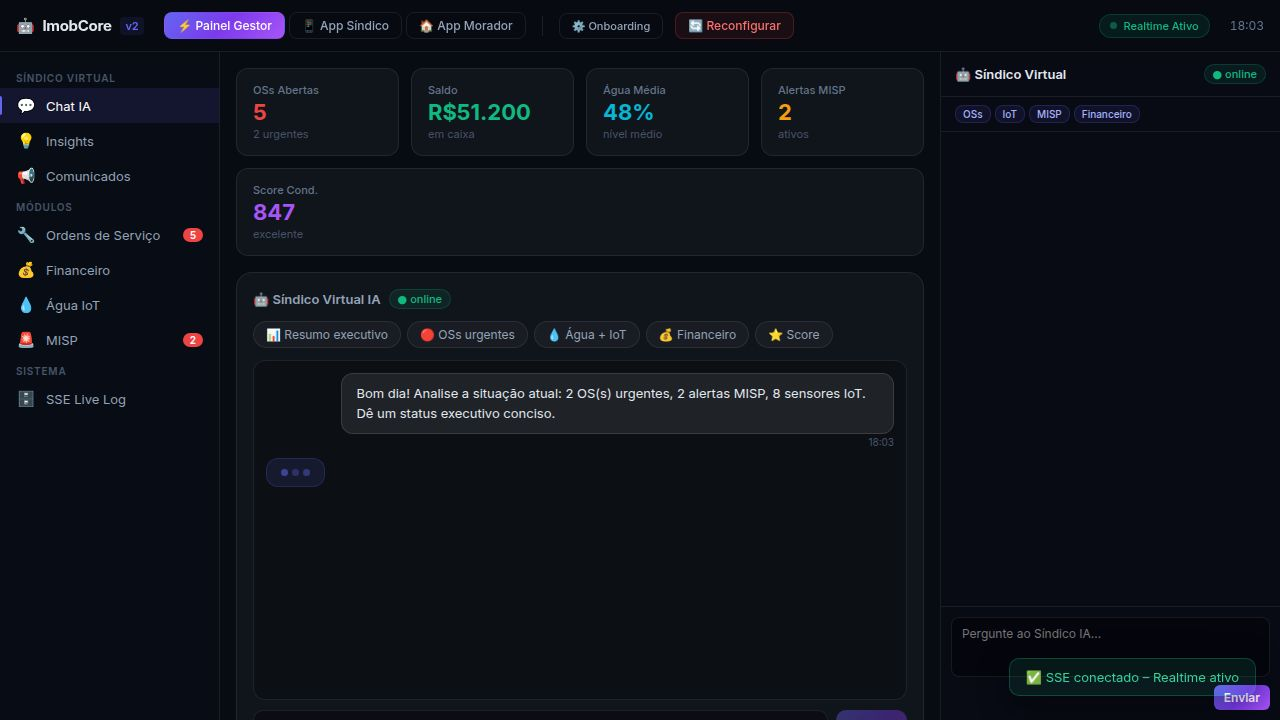
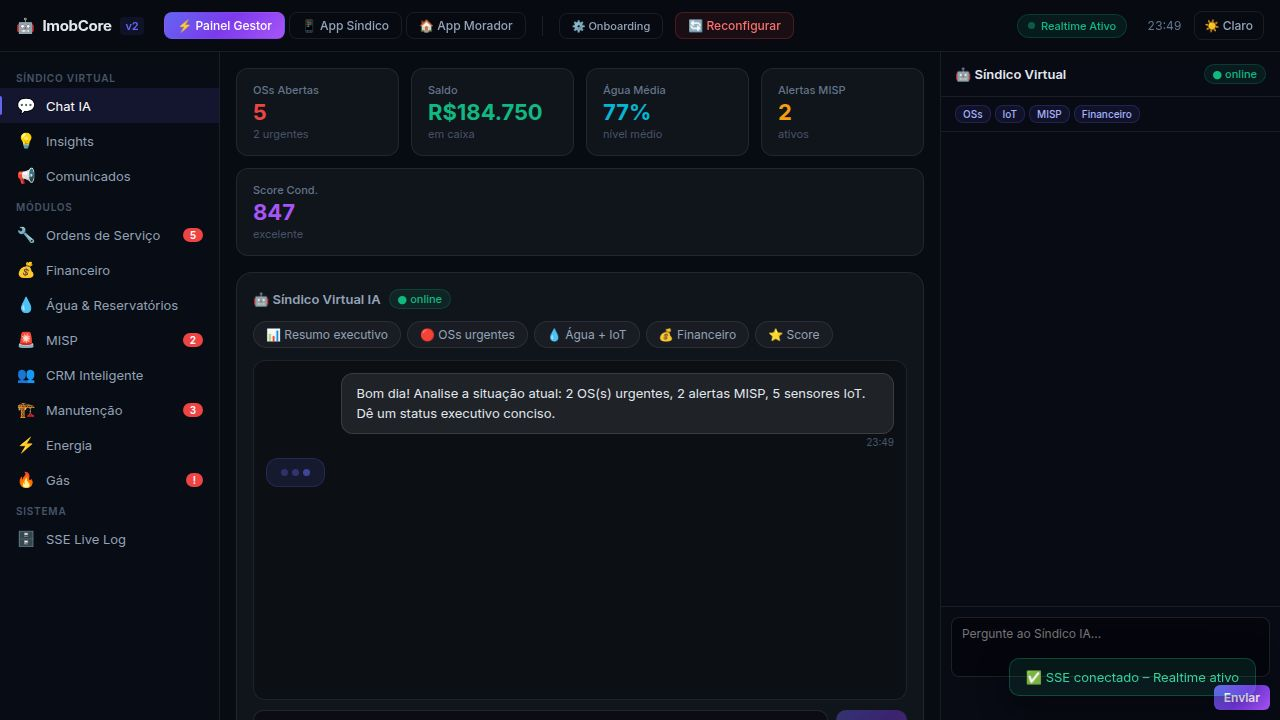
Add theme switching between dark and light modes
Introduce a theme toggle button and implement CSS custom properties for dynamic theme switching between dark and light modes in `App.tsx`.

Replit-Commit-Author: Agent
Replit-Commit-Session-Id: 5dbc3143-1f75-44cb-a1fa-338890d88333
Replit-Commit-Checkpoint-Type: full_checkpoint
Replit-Commit-Event-Id: f2934173-0b25-46a8-9594-42200f7cffc5
Replit-Commit-Screenshot-Url: https://storage.googleapis.com/screenshot-production-us-central1/3fd0c5ea-08d8-4e62-8c21-463e58d3085b/5dbc3143-1f75-44cb-a1fa-338890d88333/OtqTMGt
Replit-Helium-Checkpoint-Created: true

diff --git a/artifacts/imobcore-frontend/src/App.tsx b/artifacts/imobcore-frontend/src/App.tsx
@@ -24,7 +24,7 @@ const fmtTime = () => new Date().toLocaleTimeString("pt-BR", { hour: "2-digit", 
 const CSS = `
 @import url('https://fonts.googleapis.com/css2?family=Inter:wght@300;400;500;600;700;800&display=swap');
 *,*::before,*::after{box-sizing:border-box;margin:0;padding:0}
-html,body,#root{height:100%;font-family:'Inter',sans-serif;background:#070B12;color:#E2E8F0;overflow:hidden}
+html,body,#root{height:100%;font-family:'Inter',sans-serif;background:var(--c-bg);color:var(--c-text);overflow:hidden}
 :root{
   --bg:#070B12;--card-bg:rgba(255,255,255,.04);--card-border:rgba(255,255,255,.08);
   --grad:linear-gradient(135deg,#6366F1,#7C3AED,#A855F7);
@@ -32,22 +32,34 @@ html,body,#root{height:100%;font-family:'Inter',sans-serif;background:#070B12;co
   --indigo:#6366F1;--violet:#7C3AED;--purple:#A855F7;
   --teal:#14B8A6;--red:#EF4444;--amber:#F59E0B;--green:#10B981;--blue:#3B82F6;--cyan:#06B6D4;
   --sidebar-w:220px;--ai-panel-w:340px;--topbar-h:52px;
+  /* ── Theme tokens (updated via JS useEffect) ─────────────────── */
+  --c-bg:#070B12;--c-bg2:#0D1526;
+  --c-sidebar:rgba(8,12,20,.98);--c-topbar:rgba(7,11,18,.95);
+  --c-topbar-border:rgba(255,255,255,.08);--c-panel:rgba(8,10,20,.98);
+  --c-input:rgba(0,0,0,.3);--c-input-border:rgba(255,255,255,.1);
+  --c-text:#E2E8F0;--c-text-muted:#94A3B8;--c-text-faint:#475569;
+  --c-surface:rgba(255,255,255,.04);--c-surface2:rgba(255,255,255,.02);
+  --c-divider:rgba(255,255,255,.05);--c-hover:rgba(255,255,255,.04);
+  --c-sb-item:#94A3B8;--c-sb-item-hover:#E2E8F0;
+  --c-scrollbar:rgba(255,255,255,.1);
 }
 ::-webkit-scrollbar{width:4px;height:4px}
 ::-webkit-scrollbar-track{background:transparent}
-::-webkit-scrollbar-thumb{background:rgba(255,255,255,.1);border-radius:2px}
+::-webkit-scrollbar-thumb{background:var(--c-scrollbar);border-radius:2px}
 @keyframes pulse{0%,100%{opacity:1}50%{opacity:.4}}
 @keyframes fadeIn{from{opacity:0;transform:translateY(6px)}to{opacity:1;transform:translateY(0)}}
 @keyframes slideLeft{from{opacity:0;transform:translateX(30px)}to{opacity:1;transform:translateX(0)}}
 @keyframes blink{0%,100%{opacity:1}50%{opacity:.3}}
 @keyframes slideIn{from{opacity:0;transform:translateX(20px)}to{opacity:1;transform:translateX(0)}}
 @keyframes bellShake{0%,100%{transform:rotate(0)}20%{transform:rotate(-15deg)}40%{transform:rotate(15deg)}60%{transform:rotate(-10deg)}80%{transform:rotate(10deg)}}
-.topbar{position:fixed;top:0;left:0;right:0;z-index:1000;height:var(--topbar-h);background:rgba(7,11,18,.95);backdrop-filter:blur(12px);border-bottom:1px solid var(--card-border);display:flex;align-items:center;gap:12px;padding:0 16px}
+.topbar{position:fixed;top:0;left:0;right:0;z-index:1000;height:var(--topbar-h);background:var(--c-topbar);backdrop-filter:blur(12px);border-bottom:1px solid var(--c-topbar-border);display:flex;align-items:center;gap:12px;padding:0 16px}
+.theme-toggle{padding:6px 10px;border-radius:8px;border:1px solid var(--c-topbar-border);background:transparent;cursor:pointer;font-size:15px;transition:all .2s;display:flex;align-items:center;gap:5px;font-family:inherit;color:var(--c-text-muted);font-size:12px;font-weight:500}
+.theme-toggle:hover{background:var(--c-hover);color:var(--c-text)}
 .logo{display:flex;align-items:center;gap:8px;font-weight:700;font-size:15px;letter-spacing:-.3px;margin-right:8px}
 .view-btns{display:flex;gap:4px}
-.view-btn{padding:5px 12px;border-radius:8px;border:1px solid var(--card-border);background:transparent;color:#94A3B8;font-size:12px;font-weight:500;cursor:pointer;transition:all .2s;font-family:inherit}
+.view-btn{padding:5px 12px;border-radius:8px;border:1px solid var(--c-topbar-border);background:transparent;color:var(--c-text-muted);font-size:12px;font-weight:500;cursor:pointer;transition:all .2s;font-family:inherit}
 .view-btn.active{background:var(--grad);border-color:transparent;color:#fff}
-.view-btn:hover:not(.active){background:rgba(255,255,255,.06);color:#E2E8F0}
+.view-btn:hover:not(.active){background:var(--c-hover);color:var(--c-text)}
 .rt-badge{display:flex;align-items:center;gap:6px;margin-left:auto;padding:4px 10px;border-radius:20px;background:rgba(16,185,129,.1);border:1px solid rgba(16,185,129,.2);font-size:11px;color:#10B981;font-weight:500}
 .rt-badge .dot{width:7px;height:7px;border-radius:50%;background:#10B981}
 .rt-badge .dot.pulse{animation:pulse 2s infinite}
@@ -56,16 +68,16 @@ html,body,#root{height:100%;font-family:'Inter',sans-serif;background:#070B12;co
 .clock{font-size:12px;color:#64748B;font-variant-numeric:tabular-nums;margin-left:8px}
 .view{display:none;height:calc(100vh - var(--topbar-h));margin-top:var(--topbar-h)}
 .view.active{display:flex}
-.sidebar{width:var(--sidebar-w);min-width:var(--sidebar-w);height:100%;background:rgba(8,12,20,.98);border-right:1px solid var(--card-border);overflow-y:auto;padding:12px 0}
-.sb-label{font-size:10px;font-weight:600;color:#475569;text-transform:uppercase;letter-spacing:.08em;padding:8px 16px 4px}
-.sb-item{display:flex;align-items:center;gap:10px;padding:8px 16px;cursor:pointer;font-size:13px;color:#94A3B8;transition:all .15s;position:relative}
-.sb-item:hover{color:#E2E8F0;background:rgba(255,255,255,.04)}
+.sidebar{width:var(--sidebar-w);min-width:var(--sidebar-w);height:100%;background:var(--c-sidebar);border-right:1px solid var(--c-topbar-border);overflow-y:auto;padding:12px 0}
+.sb-label{font-size:10px;font-weight:600;color:var(--c-text-faint);text-transform:uppercase;letter-spacing:.08em;padding:8px 16px 4px}
+.sb-item{display:flex;align-items:center;gap:10px;padding:8px 16px;cursor:pointer;font-size:13px;color:var(--c-sb-item);transition:all .15s;position:relative}
+.sb-item:hover{color:var(--c-sb-item-hover);background:var(--c-hover)}
 .sb-item.active{color:#fff;background:rgba(99,102,241,.12)}
 .sb-item.active::before{content:'';position:absolute;left:0;top:8px;bottom:8px;width:2px;background:var(--indigo);border-radius:0 2px 2px 0}
 .sb-icon{font-size:15px;width:20px;text-align:center}
 .sb-badge{margin-left:auto;padding:1px 7px;border-radius:10px;background:var(--red);color:#fff;font-size:10px;font-weight:600}
 .sb-badge.blue{background:var(--blue)}
-.main-area{flex:1;overflow-y:auto;padding:16px}
+.main-area{flex:1;overflow-y:auto;padding:16px;background:var(--c-bg);color:var(--c-text)}
 .kpi-row{display:flex;gap:12px;margin-bottom:16px;flex-wrap:wrap}
 .kpi-card{flex:1;min-width:140px;padding:14px 16px;background:var(--card-bg);border:1px solid var(--card-border);border-radius:12px}
 .kpi-label{font-size:11px;color:#64748B;font-weight:500;margin-bottom:4px}
@@ -87,7 +99,7 @@ html,body,#root{height:100%;font-family:'Inter',sans-serif;background:#070B12;co
 .msg.user .msg-bubble{background:rgba(255,255,255,.08);border:1px solid rgba(255,255,255,.12);color:#E2E8F0}
 .msg-time{font-size:10px;color:#475569;margin-top:2px}
 .chat-input-row{display:flex;gap:8px}
-.chat-input{flex:1;padding:10px 14px;background:rgba(0,0,0,.3);border:1px solid var(--card-border);border-radius:10px;color:#E2E8F0;font-size:13px;font-family:inherit;resize:none;transition:border-color .15s}
+.chat-input{flex:1;padding:10px 14px;background:var(--c-input);border:1px solid var(--c-input-border);border-radius:10px;color:var(--c-text);font-size:13px;font-family:inherit;resize:none;transition:border-color .15s}
 .chat-input:focus{outline:none;border-color:rgba(99,102,241,.5)}
 .btn-send{padding:10px 16px;background:var(--grad);border:none;border-radius:10px;color:#fff;font-weight:600;font-size:13px;cursor:pointer;transition:opacity .15s;font-family:inherit}
 .btn-send:hover{opacity:.85}
@@ -124,10 +136,10 @@ tbody tr:hover td{background:rgba(255,255,255,.02)}
 .btn-success{background:rgba(16,185,129,.15);color:#34D399;border:1px solid rgba(16,185,129,.2)}
 .btn-success:hover{background:rgba(16,185,129,.25)}
 .form-group{margin-bottom:12px}
-.form-label{font-size:12px;color:#64748B;margin-bottom:4px;display:block;font-weight:500}
-.form-control{width:100%;padding:8px 12px;background:rgba(0,0,0,.3);border:1px solid var(--card-border);border-radius:8px;color:#E2E8F0;font-size:13px;font-family:inherit}
+.form-label{font-size:12px;color:var(--c-text-faint);margin-bottom:4px;display:block;font-weight:500}
+.form-control{width:100%;padding:8px 12px;background:var(--c-input);border:1px solid var(--c-input-border);border-radius:8px;color:var(--c-text);font-size:13px;font-family:inherit}
 .form-control:focus{outline:none;border-color:rgba(99,102,241,.5)}
-select.form-control option{background:#0D1220}
+select.form-control option{background:var(--c-bg2)}
 .sensor-grid{display:grid;grid-template-columns:repeat(auto-fill,minmax(160px,1fr));gap:12px}
 .sensor-card{background:var(--card-bg);border:1px solid var(--card-border);border-radius:12px;padding:16px;text-align:center}
 .sensor-ring-wrap{position:relative;width:90px;height:90px;margin:0 auto 10px}
@@ -137,13 +149,13 @@ select.form-control option{background:#0D1220}
 .ring-label{position:absolute;top:50%;left:50%;transform:translate(-50%,-50%);font-size:16px;font-weight:700;line-height:1}
 .sensor-name{font-size:12px;font-weight:600;color:#CBD5E1;margin-bottom:2px}
 .sensor-sub{font-size:11px;color:#475569}
-.ai-panel{width:var(--ai-panel-w);min-width:var(--ai-panel-w);height:100%;background:rgba(8,10,20,.98);border-left:1px solid var(--card-border);display:flex;flex-direction:column}
+.ai-panel{width:var(--ai-panel-w);min-width:var(--ai-panel-w);height:100%;background:var(--c-panel);border-left:1px solid var(--c-topbar-border);display:flex;flex-direction:column}
 .ai-panel-header{padding:12px 14px;border-bottom:1px solid var(--card-border);display:flex;align-items:center;justify-content:space-between}
 .ctx-pills{display:flex;flex-wrap:wrap;gap:4px;padding:8px 14px;border-bottom:1px solid var(--card-border)}
 .ctx-pill{font-size:10px;padding:2px 7px;border-radius:8px;font-weight:500;background:rgba(99,102,241,.1);color:#A5B4FC;border:1px solid rgba(99,102,241,.2)}
 .ai-panel-msgs{flex:1;overflow-y:auto;padding:10px;display:flex;flex-direction:column;gap:8px}
 .ai-panel-input{padding:10px;border-top:1px solid var(--card-border)}
-.ai-panel-input textarea{width:100%;padding:8px 10px;background:rgba(0,0,0,.3);border:1px solid var(--card-border);border-radius:8px;color:#E2E8F0;font-size:12px;font-family:inherit;resize:none;height:60px}
+.ai-panel-input textarea{width:100%;padding:8px 10px;background:var(--c-input);border:1px solid var(--c-input-border);border-radius:8px;color:var(--c-text);font-size:12px;font-family:inherit;resize:none;height:60px}
 .ai-panel-input textarea:focus{outline:none;border-color:rgba(99,102,241,.5)}
 .log-wrap{height:380px;overflow-y:auto;padding:10px;font-family:'Courier New',monospace;font-size:11px;background:rgba(0,0,0,.4);border-radius:8px;border:1px solid var(--card-border)}
 .log-entry{padding:3px 0;border-bottom:1px solid rgba(255,255,255,.03);color:#64748B}
@@ -377,6 +389,7 @@ export default function App() {
   const toastIdRef = useRef(0);
   const [bellCount, setBellCount] = useState(0);
   const [bellShake, setBellShake] = useState(false);
+  const [theme, setTheme] = useState<"dark" | "light">("dark");
   // ── Manutenção state ────────────────────────────────────────────────────
   const [mantTab, setMantTab] = useState<"equip"|"mapa"|"plano"|"os"|"qr"|"ia">("equip");
   const [mantSearch, setMantSearch] = useState("");
@@ -660,6 +673,71 @@ export default function App() {
     const refresh = setInterval(() => loadDashboard(), 10000);
     return () => { clearInterval(clock); clearInterval(refresh); };
   }, [loadDashboard]);
+
+  // ── Theme: apply CSS custom properties ───────────────────────────────────
+  useEffect(() => {
+    const r = document.documentElement.style;
+    if (theme === "light") {
+      r.setProperty("--c-bg", "#F1F5F9");
+      r.setProperty("--c-bg2", "#E2E8F0");
+      r.setProperty("--card-bg", "#FFFFFF");
+      r.setProperty("--card-border", "rgba(0,0,0,.1)");
+      r.setProperty("--c-sidebar", "#EAEFF6");
+      r.setProperty("--c-topbar", "rgba(241,245,249,.97)");
+      r.setProperty("--c-topbar-border", "rgba(0,0,0,.1)");
+      r.setProperty("--c-panel", "#F8FAFC");
+      r.setProperty("--c-input", "#FFFFFF");
+      r.setProperty("--c-input-border", "rgba(0,0,0,.15)");
+      r.setProperty("--c-text", "#0F172A");
+      r.setProperty("--c-text-muted", "#334155");
+      r.setProperty("--c-text-faint", "#64748B");
+      r.setProperty("--c-surface", "#FFFFFF");
+      r.setProperty("--c-surface2", "#F8FAFC");
+      r.setProperty("--c-divider", "rgba(0,0,0,.07)");
+      r.setProperty("--c-hover", "rgba(0,0,0,.04)");
+      r.setProperty("--c-sb-item", "#475569");
+      r.setProperty("--c-sb-item-hover", "#0F172A");
+      r.setProperty("--c-scrollbar", "rgba(0,0,0,.15)");
+    } else {
+      r.setProperty("--c-bg", "#070B12");
+      r.setProperty("--c-bg2", "#0D1526");
+      r.setProperty("--card-bg", "rgba(255,255,255,.04)");
+      r.setProperty("--card-border", "rgba(255,255,255,.08)");
+      r.setProperty("--c-sidebar", "rgba(8,12,20,.98)");
+      r.setProperty("--c-topbar", "rgba(7,11,18,.95)");
+      r.setProperty("--c-topbar-border", "rgba(255,255,255,.08)");
+      r.setProperty("--c-panel", "rgba(8,10,20,.98)");
+      r.setProperty("--c-input", "rgba(0,0,0,.3)");
+      r.setProperty("--c-input-border", "rgba(255,255,255,.1)");
+      r.setProperty("--c-text", "#E2E8F0");
+      r.setProperty("--c-text-muted", "#94A3B8");
+      r.setProperty("--c-text-faint", "#475569");
+      r.setProperty("--c-surface", "rgba(255,255,255,.04)");
+      r.setProperty("--c-surface2", "rgba(255,255,255,.02)");
+      r.setProperty("--c-divider", "rgba(255,255,255,.05)");
+      r.setProperty("--c-hover", "rgba(255,255,255,.04)");
+      r.setProperty("--c-sb-item", "#94A3B8");
+      r.setProperty("--c-sb-item-hover", "#E2E8F0");
+      r.setProperty("--c-scrollbar", "rgba(255,255,255,.1)");
+    }
+  }, [theme]);
+
+  // ── Theme tokens (used in inline styles throughout panels) ───────────────
+  const th = theme === "light" ? {
+    bg: "#F1F5F9", surface: "#FFFFFF", surface2: "#F8FAFC", surface3: "#EEF2F7",
+    border: "rgba(0,0,0,.1)", border2: "rgba(0,0,0,.06)",
+    text: "#0F172A", textMuted: "#334155", textFaint: "#64748B",
+    inputBg: "#FFFFFF", inputBorder: "rgba(0,0,0,.15)",
+    logBg: "rgba(0,0,0,.04)", chatBg: "rgba(0,0,0,.04)",
+    shadow: "0 1px 3px rgba(0,0,0,.12)",
+  } : {
+    bg: "#070B12", surface: "rgba(255,255,255,.04)", surface2: "rgba(255,255,255,.02)", surface3: "rgba(255,255,255,.06)",
+    border: "rgba(255,255,255,.08)", border2: "rgba(255,255,255,.05)",
+    text: "#E2E8F0", textMuted: "#94A3B8", textFaint: "#475569",
+    inputBg: "rgba(0,0,0,.3)", inputBorder: "rgba(255,255,255,.1)",
+    logBg: "rgba(0,0,0,.4)", chatBg: "rgba(0,0,0,.2)",
+    shadow: "none",
+  };
 
   // ── Auto-greet ────────────────────────────────────────────────────────────
   const greetedRef = useRef(false);
@@ -2741,6 +2819,9 @@ export default function App() {
           <span>{sseOnline ? "Realtime Ativo" : "Conectando..."}</span>
         </div>
         <div className="clock">{clock}</div>
+        <button className="theme-toggle" onClick={() => setTheme(t => t === "dark" ? "light" : "dark")} title={theme === "dark" ? "Mudar para Tema Claro" : "Mudar para Tema Escuro"}>
+          {theme === "dark" ? "☀ Claro" : "🌙 Escuro"}
+        </button>
       </div>
 
       {/* ══ VIEW 1: PAINEL GESTOR ═════════════════════════════════════════════ */}
